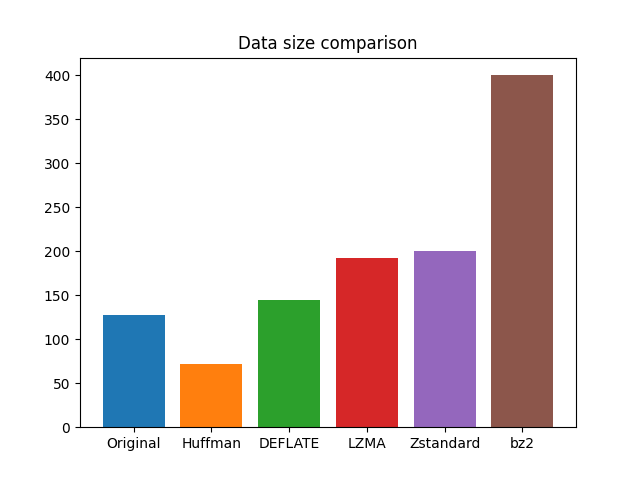
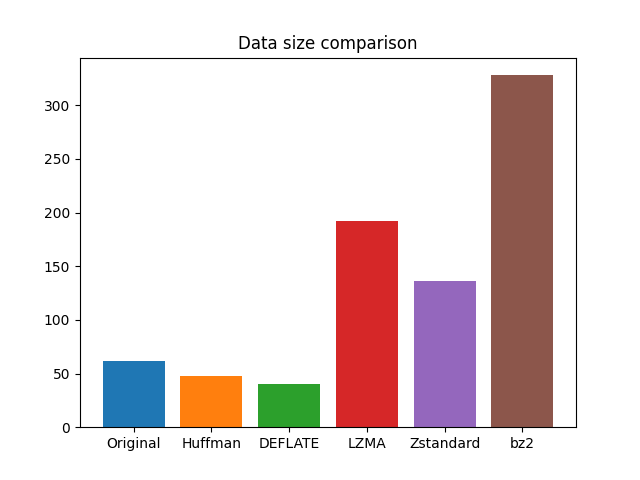
RLE still in the works

diff --git a/Python/FuncAndClass.py b/Python/FuncAndClass.py
@@ -10,6 +10,7 @@ import zlib # Deflate/Inflate
 import lzma # LZMA compression
 import bz2 # bzip2 compression
 import zstandard # ZSTD compression
+from re import sub # helper for RLE
 
 # Importing the tools need from the commPy library
 from commpy.modulation import PSKModem, Modem
@@ -45,7 +46,7 @@ def turnBin(v):
 
 def turnBack(b):
     i = int(b,2)
-    return i.to_bytes((len(i) + 7 ) // 8, byteorder = 'big')
+    return i.to_bytes((len(b) + 7 ) // 8, byteorder = 'big')
 
 # Huffman Coding
 class HuffmanCoding:
@@ -88,7 +89,17 @@ class HuffmanCoding:
             frequency[character] += 1
         return frequency
 
+    def make_entropy_dict(self, frequency):
+        total = sum(frequency.values())
+        entropy = {}
+        for key in frequency:
+            if not key in entropy:
+                entropy[key] = 0
+            entropy[key] += frequency[key] / total
+        return entropy
+
     def make_heap(self, frequency):
+        self.make_entropy_dict(frequency)
         for key in frequency:
             node = self.HeapNode(key, frequency[key])
             heapq.heappush(self.heap, node)
@@ -148,13 +159,12 @@ class HuffmanCoding:
         return b
 
     def compress(self, inpData):
-        if type(inpData) != str:
-            inpData = str(inpData, 'utf-8')
         text = inpData
         text = text.rstrip()
 
         frequency = self.make_frequency_dict(text)
-        self.make_heap(frequency)
+        entropy = self.make_entropy_dict(frequency)
+        self.make_heap(entropy)
         self.merge_nodes()
         self.make_codes()
 
@@ -162,8 +172,7 @@ class HuffmanCoding:
         padded_encoded_text = self.pad_encoded_text(encoded_text)
 
         b = self.get_byte_array(padded_encoded_text)
-        binData = "".join(map(turnBin, b))
-        return binData
+        return b
 
     # functions for decompression
 
@@ -187,7 +196,6 @@ class HuffmanCoding:
 
     def decompress(self, data):
         bit_string=""
-        data = int(data, 2).to_bytes((len(data) + 7) // 8, byteorder='big')
         byteData=io.BytesIO(data)
         byte=byteData.read(1)
         while(len(byte) > 0):
@@ -197,17 +205,72 @@ class HuffmanCoding:
             byte=byteData.read(1)
         encoded_text=self.remove_padding(bit_string)
         decompressed_text=self.decode_text(encoded_text)
-        return bytes(decompressed_text, 'utf-8')
+        return decompressed_text
 
+def RLEEnc(inp):
+    data = ''
+    for i in inp:
+        if i == '0': data += 'B'
+        if i == '1': data += 'W'
+    
+    encoding = ''
+    prev_char = ''
+    count = 1
+
+    if not data: return ''
+    for char in data:
+        # If the prev and current characters
+        # don't match...
+        if char != prev_char:
+            # ...then add the count and character
+            # to our encoding
+            if prev_char:
+                encoding += str(count) + prev_char
+            count = 1
+            prev_char = char
+        else:
+            # Or increment our counter
+            # if the characters do match
+            count += 1
+    else:
+        # Finish off the encoding
+        encoding += str(count) + prev_char
+        return encoding
+
+def RLEDec(data):
+    decode = ''
+    count = ''
+    for char in data:
+        # If the character is numerical...
+        if char.isdigit():
+            # ...append it to our count
+            count += char
+        else:
+            # Otherwise we've seen a non-numerical
+            # character and need to expand it for
+            # the decoding
+            decode += char * int(count)
+            count = ''
+    
+    decodedData =  ''
+    for i in decode:
+        if i == 'B': decodedData += '0'
+        if i == 'W': decodedData += '1'
+    return decodedData
+
+h = HuffmanCoding() 
 def huffComp(data):
-    if type(data)!=str: str(data,'utf-8') 
-    h = HuffmanCoding()
+    if type(data)!=str: str(data) 
+    data = RLEEnc(data)
     data = h.compress(data) 
+    data = ''.join(map(turnBin, data))
     return data
 
 def huffDecomp(data):
-    h = HuffmanCoding()
+    data = turnBack(data)
     data = h.decompress(data)
+    data = RLEDec(data)
+    data = turnBack(data)
     return data
 
 # Function for LZW Compression
@@ -317,9 +380,7 @@ def deflate(data, compresslevel=9):
     return binData
 
 def inflate(data):
-    dataInt = int(data,2)
-    data=dataInt.to_bytes((dataInt.bit_length() + 7) // 8, byteorder='big')
-    
+    data = turnBack(data)
     decompress=zlib.decompressobj(-zlib.MAX_WBITS)
     data=decompress.decompress(data)
     data += decompress.flush()
@@ -334,8 +395,7 @@ def LZMAComp(data):
     return binData
 
 def LZMADeComp(data):
-    dataInt = int(data,2)
-    data=dataInt.to_bytes((dataInt.bit_length() + 7) // 8, byteorder='big')
+    data = turnBack(data)
     decompressor = lzma.LZMADecompressor()
     data = decompressor.decompress(data)
     return data
@@ -349,8 +409,7 @@ def zstdComp(data):
     return binData
 
 def zstdDeComp(data):
-    dataInt = int(data,2)
-    data= dataInt.to_bytes((dataInt.bit_length() + 7) // 8, byteorder='big')    
+    data = turnBack(data)   
     decompressor = zstandard.ZstdDecompressor()
     data = decompressor.decompress(data)
     return data
@@ -479,13 +538,13 @@ def remParityBits(arr):
     return arr
 
 # Transmittion
+deCompAlgo = [returnIt, huffDecomp, inflate, LZMADeComp, zstdDeComp, bzipDecomp] # Functions for decompression techniques we use
 def monteTransmit(EbNo, transArr, sourceData, code=0, source=0):
     BERarr=[None] * len(EbNo)
     M=64
     numErrs=0
     answer=""
-    sourceData = binIt(sourceData)        
-    sourceData=''.join([str(i) for i in sourceData])
+    sourceData = ''.join(map(turnBin, sourceData))
     sourceData = np.array(list(sourceData), dtype=int)
     for i in range(0, len(EbNo)):
         SNR=EbNo[i]
@@ -534,14 +593,13 @@ def monteTransmit(EbNo, transArr, sourceData, code=0, source=0):
             numErrs += np.sum(sourceData != decodedData)
             BERarr[i]=numErrs/decodedData.size
 
-        else:
+        if code == 0:
             answer='Original Data'
             recieveArr=awgn(modArr, SNR, rate=1)
             demodArr=mod.demodulate(recieveArr, 'hard')
             decodedData=''.join([str(i) for i in demodArr])
-        deCompAlgo = [returnIt, huffDecomp, inflate, LZMADeComp, zstdDeComp, bzipDecomp] # Functions for decompression techniques we use
-        if source != 0:       
-            decodedData = deCompAlgo[source](decodedData)
+        decodedData = deCompAlgo[source](decodedData) #Decompress our to the original source
+        decodedData = ''.join(map(turnBin, decodedData))
         decodedData = np.array(list(decodedData), dtype=int)
         numErrs += np.sum(decodedData != sourceData)
         BERarr[i]=numErrs/len(sourceData)

diff --git a/Python/JointCode.py b/Python/JointCode.py
@@ -22,7 +22,7 @@ from pypapi import papi_high
 for z in range(1):
     print(z)
     # Data Generation of random string
-    sizeOfData = 4**2 #np.random.randint(1, 64)
+    sizeOfData = 4**4 #np.random.randint(1, 64)
     symbols = list(string.ascii_uppercase)
     arr = np.random.choice(symbols, sizeOfData) # The code
     strData = ''.join([str(i) for i in arr])
@@ -31,10 +31,10 @@ for z in range(1):
     df = pd.read_csv("Datasets/IOT-temp.csv")    
     temps = pd.Series(df['temp'])
     dataNo = np.random.randint(1,97600)
-    #data = temps[dataNo]
-    data = strData
-    #byteData = data.tobytes()
-    byteData = bytes(data, 'utf-8')
+    data = temps[dataNo]
+    #data = strData
+    byteData = data.tobytes()
+    #byteData = bytes(data, 'utf-8')
 
     # How many compression techniques do we want to use 
     noOfSources = 6
@@ -59,13 +59,14 @@ for z in range(1):
     # Tracking for benchmarking
     timeEn = [0.0] * noOfSources ; timeDe = [0.0] * noOfSources ; flopsEn = [0.0] * noOfSources; flopsDe = [0.0] * noOfSources
 
-  
+    transData =  ''.join(map(turnBin, byteData))
 
     # Benchmarking encoding of compression
     for i in range(noOfSources):
         # Time taken to compress
         timeStart = perf_counter_ns()
-        sourceCodes[i] = compAlgo[i](byteData)
+        if i == 1: sourceCodes[i] = compAlgo[i](transData)
+        else : sourceCodes[i] = compAlgo[i](byteData)
         timeStop = perf_counter_ns()
         timeEn[i] = timeStop - timeStart
 
@@ -103,8 +104,8 @@ for z in range(1):
     for i in range(0, noOfSources):
         if decodedCodes[i] != decodedCodes[0]:
             print('There is an error in', sourceNames[i])
-            print(decodedCodes[i])
-            print(decodedCodes[0])
+            print('Original Code is', decodedCodes[0])
+            print('Recieved Code is', decodedCodes[i])
             print("")
         print("Using ", sourceNames[i], " The size is ", str(len(sourceCodes[i])) + ":")
         print("Compression ratio of " , len(sourceCodes[0])/len(sourceCodes[i]))
@@ -201,7 +202,7 @@ for z in range(1):
     plt.grid(True)
 
     print(sourceNames[i]+ ':')
-    monteTransmit(EbNo, origData, decodedCodes[0])
+    monteTransmit(EbNo, origData, decodedCodes[0], code=0, source=0)
     recieveArr = monteTransmit(EbNo, hammData, decodedCodes[i], 1, i)
     # recieveArr = monteTransmit(EbNo, dict(subString.split("=") for subString in sourceCodes[i].split(";")) + LDPCData, LDPCData, 2)
     # recieveArr = monteTransmit(EbNo, convData, sourceCodes[i], 3)
